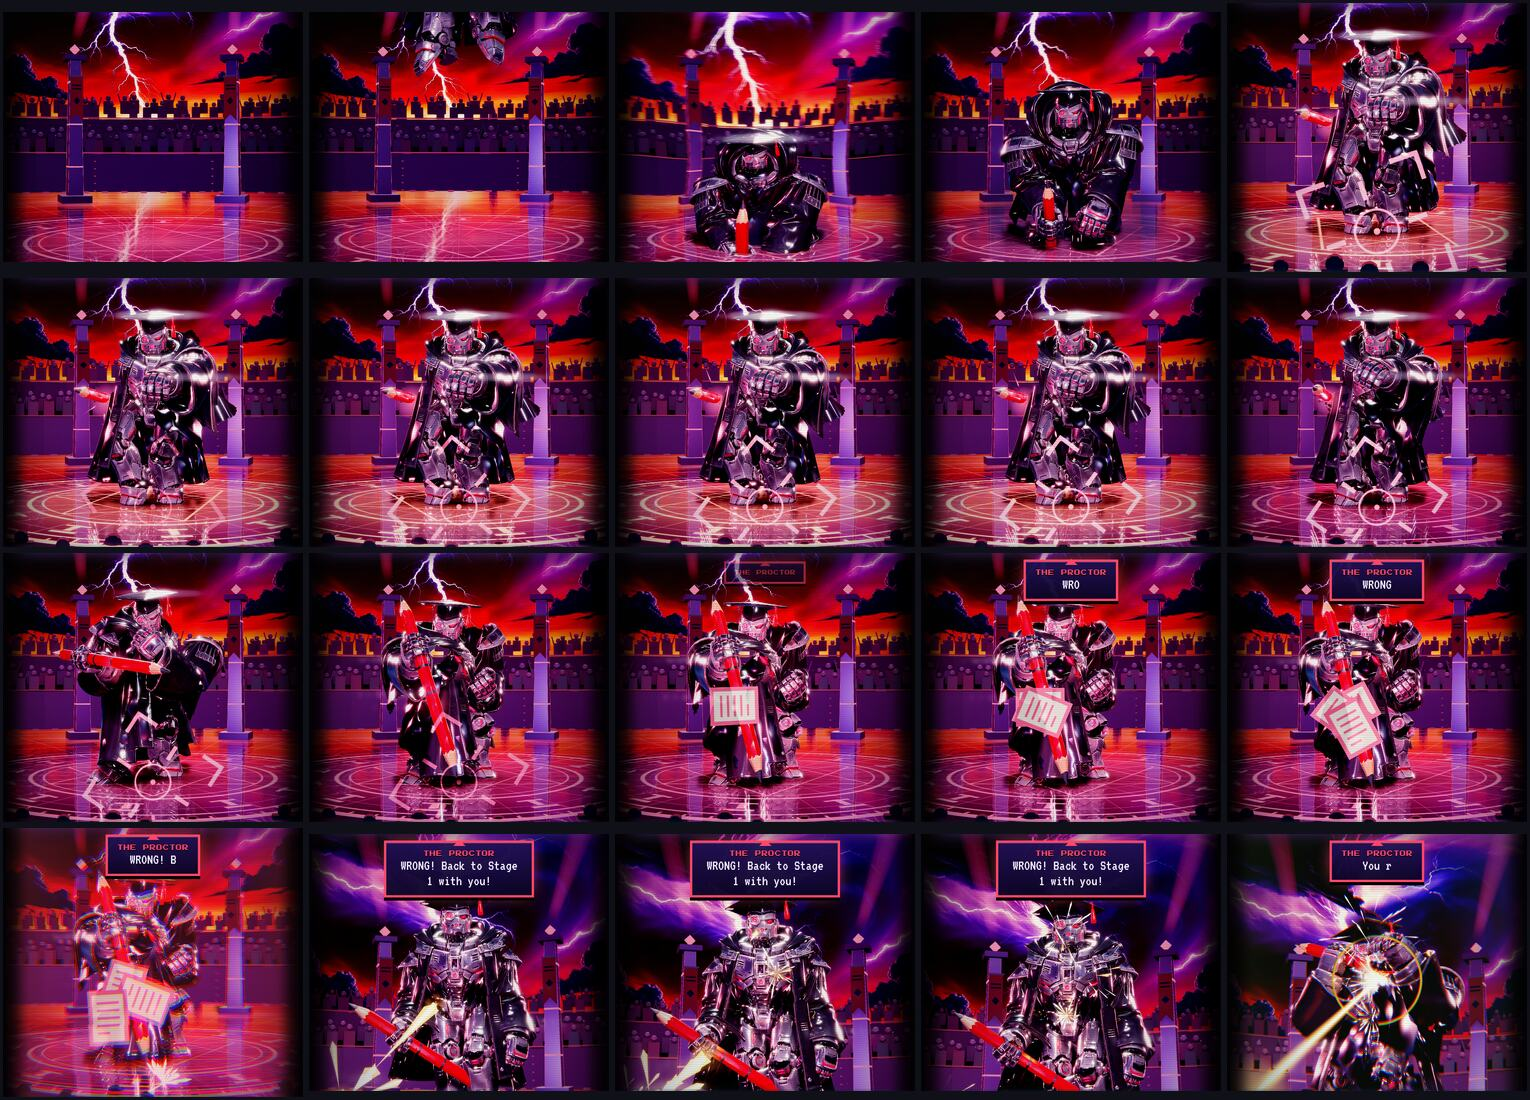
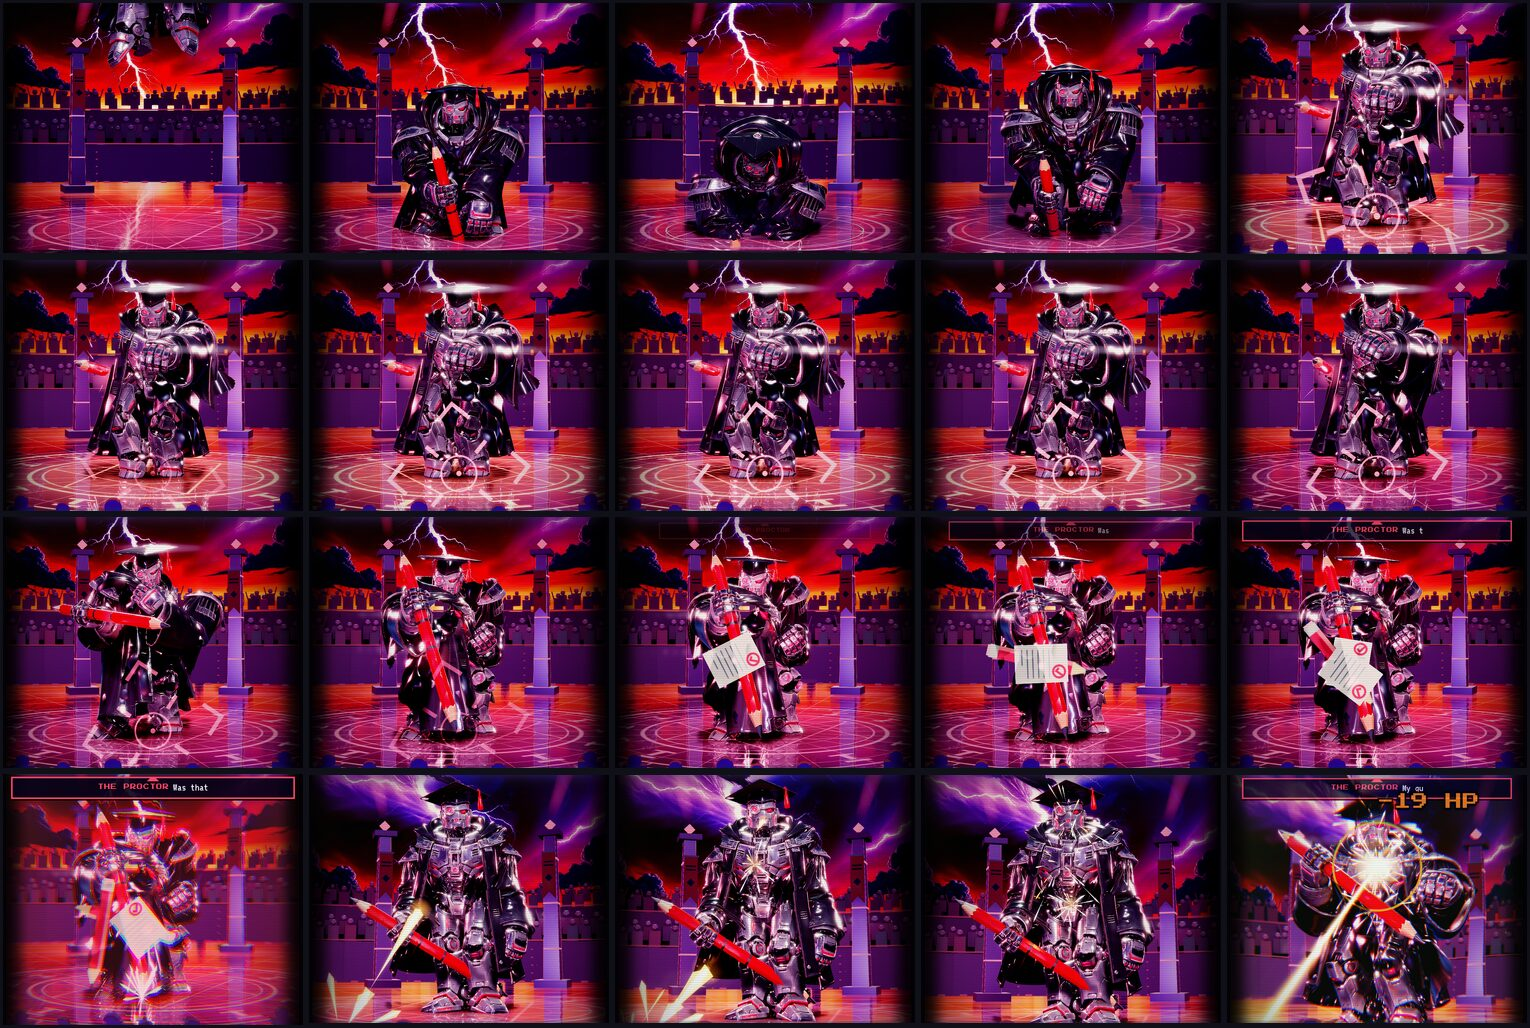
Boss Rush, after the review: final captures of the Proctor; the cue log written again
Claude-Session: https://claude.ai/code/session_01SXN4PWw2h7NprrScNwTTGU

diff --git a/arcade/docs/combat-pass/boss/sound-cues.md b/arcade/docs/combat-pass/boss/sound-cues.md
@@ -178,9 +178,9 @@ Frame 0: the answer is picked. While its explanation is up the boss stands there
 | +17 | the lance lands on its body (a white heart, sparks in the answer's colour, a thin ring, a hit-stop); it is finished; done for: it sways, arms hanging, lights failing | `correct` · `impact_big` · `boss_stagger` (sounds 3 frames on) |
 | +50 | the explanation sheet comes up |  |
 | +59 | a small blast on its body | `explosion_small` |
-| +106 | a small blast on its body | `explosion_small` |
-| +155 | a small blast on its body | `explosion_small` |
-| +197 | a small blast on its body | `explosion_small` |
+| +107 | a small blast on its body | `explosion_small` |
+| +149 | a small blast on its body | `explosion_small` |
+| +199 | a small blast on its body | `explosion_small` |
 
 Loops running at the end of it: none.
 
@@ -195,8 +195,7 @@ Frame 0: the explanation is closed (the rule shows the results 192 frames on, as
 | +37 | a blast on its body as it falls; its r forearm is torn off and thrown, turning, sparks trailing (a small blast where it tore, 3 frames on); its l calf is torn off and thrown, turning, sparks trailing (a small blast where it tore, 3 frames on) | `boss_break` · `explosion_small` |
 | +58 | a blast on its body as it falls; its head is torn off and thrown, turning, sparks trailing (a small blast where it tore, 3 frames on); its r upperarm is torn off and thrown, turning, sparks trailing (a small blast where it tore, 3 frames on) | `boss_break` · `explosion_small` |
 | +92 | the last blast as it hits the floor: every part thrown clear, rings, wreckage | `explosion_huge` · `debris` (sounds 18 frames on) |
-| +100 | stars leave for the score; coins leave for the score | `reward` |
-| +104 | banner: BOSS DEFEATED! | announcer: "BOSS DEFEATED!" |
+| +100 | stars leave for the score; coins leave for the score | announcer: "BOSS DEFEATED!" · `reward` |
 | +127 |  | `win` |
 | +192 |  | `trophy` · announcer: "Trophy unlocked" · `levelup` |
 
@@ -232,7 +231,7 @@ Frame 0: the explanation is closed with no heart left (the rule shows the result
 |---:|---|---|
 | 0 | the boss has the last word: it roars and gloats | music stops · `gameover` · `roar_1` |
 | +24 |  | announcer: "GAME OVER" |
-| +72 | banner: DEFEATED | announcer: "DEFEATED" |
+| +72 |  | announcer: "DEFEATED" |
 
 Loops running at the end of it: none.
 
@@ -284,7 +283,7 @@ Frame 0: a second and a half of the bar is left.
 |---:|---|---|
 | +88 | the boss strikes (the bar has run out): its blow begins | loop stops: `charge_hum` |
 | +96 | the rule fires: the blow is at its end; it lets the strike go (a ground slam): the markers close, a beat of slow motion | `slam` |
-| +105 | the strike lands on the player: the heart is seen to go (red flash, colours split, shake, the HUD cracks, the hearts blink) | `player_hit` · `heart_lost` (sounds 5 frames on) |
+| +111 | the strike lands on the player: the heart is seen to go (red flash, colours split, shake, the HUD cracks, the hearts blink) | `player_hit` · `heart_lost` (sounds 5 frames on) |
 | +121 | the explanation sheet comes up |  |
 
 Loops running at the end of it: none.
@@ -297,7 +296,7 @@ Frame 0: a second and a half of the bar is left.
 |---:|---|---|
 | +88 | the boss strikes (the bar has run out): its blow begins | loop stops: `charge_hum` |
 | +96 | the rule fires: the blow is at its end; it lets the strike go (a wave of energy): the markers close, a beat of slow motion | `wave_fire` |
-| +108 | the strike lands on the player: the heart is seen to go (red flash, colours split, shake, the HUD cracks, the hearts blink) | `player_hit` · `heart_lost` (sounds 5 frames on) |
+| +113 | the strike lands on the player: the heart is seen to go (red flash, colours split, shake, the HUD cracks, the hearts blink) | `player_hit` · `heart_lost` (sounds 5 frames on) |
 | +121 | the explanation sheet comes up |  |
 
 Loops running at the end of it: none.
@@ -338,14 +337,13 @@ Frame 0: the explanation of the finishing blow is closed.
 |---:|---|---|
 | 0 | its death begins: slow motion, it goes over backward | music stops · `slowmo_in` · `boss_death` |
 | +15 | a blast on its body as it falls; its l upperarm is torn off and thrown, turning, sparks trailing (a small blast where it tore, 3 frames on); its r hand is torn off and thrown, turning, sparks trailing (a small blast where it tore, 3 frames on) | `boss_break` · `explosion_small` |
-| +38 | a blast on its body as it falls; its r forearm is torn off and thrown, turning, sparks trailing (a small blast where it tore, 3 frames on); its l calf is torn off and thrown, turning, sparks trailing (a small blast where it tore, 3 frames on) | `boss_break` · `explosion_small` |
-| +60 | a blast on its body as it falls; its head is torn off and thrown, turning, sparks trailing (a small blast where it tore, 3 frames on); its r upperarm is torn off and thrown, turning, sparks trailing (a small blast where it tore, 3 frames on) | `boss_break` · `explosion_small` |
-| +82 | a blast on its body as it falls; its r calf is torn off and thrown, turning, sparks trailing (a small blast where it tore, 3 frames on) | `boss_break` · `explosion_small` |
-| +116 | the last blast as it hits the floor: every part thrown clear, rings, wreckage | `explosion_huge` · `debris` (sounds 18 frames on) |
-| +123 | stars leave for the score; coins leave for the score | `reward` |
-| +127 | banner: BOSS DEFEATED! | announcer: "FINAL BOSS DESTROYED" |
-| +129 |  | `explosion_big` |
-| +149 |  | `win` |
+| +37 | a blast on its body as it falls; its r forearm is torn off and thrown, turning, sparks trailing (a small blast where it tore, 3 frames on); its l calf is torn off and thrown, turning, sparks trailing (a small blast where it tore, 3 frames on) | `boss_break` · `explosion_small` |
+| +58 | a blast on its body as it falls; its head is torn off and thrown, turning, sparks trailing (a small blast where it tore, 3 frames on); its r upperarm is torn off and thrown, turning, sparks trailing (a small blast where it tore, 3 frames on) | `boss_break` · `explosion_small` |
+| +92 | the last blast as it hits the floor: every part thrown clear, rings, wreckage | `explosion_huge` · `debris` (sounds 18 frames on) |
+| +98 |  | announcer: "FINAL BOSS DESTROYED" |
+| +99 | stars leave for the score; coins leave for the score | `reward` |
+| +105 |  | `explosion_big` |
+| +125 |  | `win` |
 | +191 |  | `levelup` |
 
 Loops running at the end of it: none.
